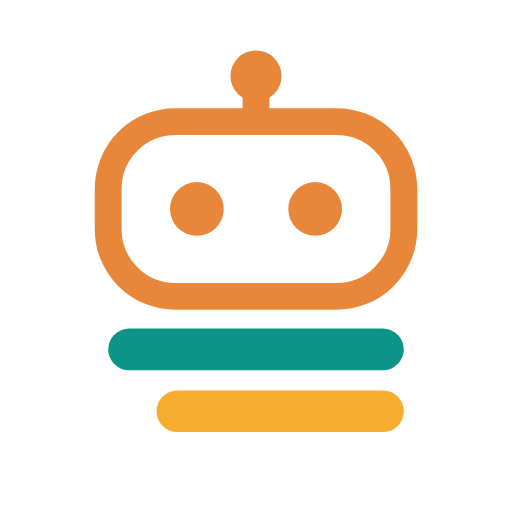
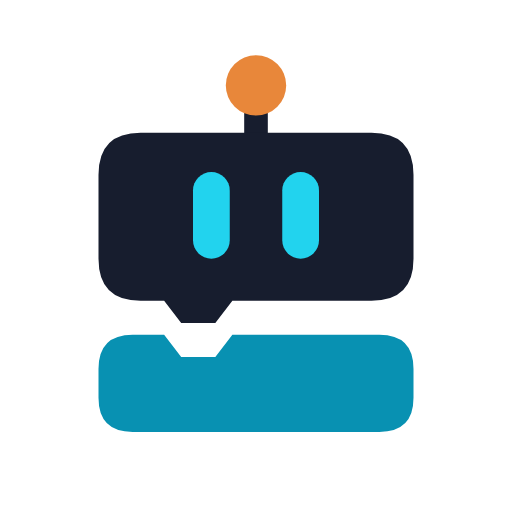
Give Tobot its new mark: a robot whose head is a statement block
The head is a code block with its tab reaching into the block below, which is
its body; the face is the character's — navy visor, cyan pill eyes, orange
antenna. On a dark background the navy head takes a light rim and the antenna
stalk turns light, from the theme in the app and from the tab strip's colour
scheme in the favicon.

The favicon, the PNG icons and the social image are drawn from the same
geometry. The Apple touch icon brings its own white, since iOS fills
transparency with black.

diff --git a/src/components/BrandMark.tsx b/src/components/BrandMark.tsx
@@ -9,19 +9,20 @@ interface BrandMarkProps {
 /**
  * Tobot's mark.
  *
- * Not a robot icon: a robot *built out of an algorithm*. The head is a rounded
- * square with an antenna, and the body below it is two stacked bars — the
- * statement blocks of the editor, read as a shape. The two ideas the app is
- * about are the same drawing, which is what a borrowed robot glyph could never
- * say.
+ * A robot made of an algorithm: the head *is* a statement block — the notch-
+ * less top, the tab hanging from its bottom edge — and it snaps into the block
+ * below, which is its body. Robot and code are the same shape, which is the
+ * whole idea of the app in two pieces.
  *
- * Teal against the orange because it is the orange's actual complement: the
- * first pairing used purple and blue, two cool colours that competed with the
- * orange without ever contrasting against it. Teal also survives best at 16px,
- * which is the size that decides whether a mark works at all.
+ * The face is the character's: a dark navy visor with two cyan pill eyes and
+ * an orange antenna, so the mark is the Tobot of the illustrations reduced to
+ * its minimum rather than a separate drawing.
  *
- * One component, used by the header, the landing page, the sign-in screen and
- * the favicon, so the identity cannot drift between them.
+ * On a dark background the navy head would sink into it, so it carries a rim
+ * whose colour comes from the theme (`--brand-mark-rim`), transparent on light.
+ *
+ * One component, used by the header, the landing page and the sign-in screen;
+ * `public/favicon.svg` and the PNG icons are drawn from the same geometry.
  */
 export function BrandMark({ size = 32, className }: BrandMarkProps) {
   return (
@@ -33,23 +34,24 @@ export function BrandMark({ size = 32, className }: BrandMarkProps) {
       role="img"
       aria-label="Tobot"
     >
-      {/* Antenna: the stalk reads as the "t" of the name at small sizes. */}
+      <path className="brand-mark__antenna" d="M16 3.8V6.6" strokeWidth="1.8" strokeLinecap="round" />
+      <circle className="brand-mark__spark" cx="16" cy="3" r="2.3" />
+
+      {/* The head: a statement block, its tab reaching into the block below. */}
       <path
-        className="brand-mark__antenna"
-        d="M16 2.5v3.5"
-        strokeWidth="2"
-        strokeLinecap="round"
+        className="brand-mark__head"
+        d="M7.2 6.6H24.8Q28 6.6 28 9.8V16.2Q28 19.4 24.8 19.4H14.2l-1.3 1.7H10.3l-1.3-1.7H7.2Q4 19.4 4 16.2V9.8Q4 6.6 7.2 6.6Z"
+        strokeWidth="1.2"
+        strokeLinejoin="round"
       />
-      <circle className="brand-mark__spark" cx="16" cy="2.6" r="1.9" />
+      <rect className="brand-mark__eye" x="11.2" y="9.6" width="2.8" height="6.6" rx="1.4" />
+      <rect className="brand-mark__eye" x="18" y="9.6" width="2.8" height="6.6" rx="1.4" />
 
-      {/* Head. */}
-      <rect className="brand-mark__head" x="5" y="6" width="22" height="13" rx="5" />
-      <circle className="brand-mark__eye" cx="11.6" cy="12.5" r="2" />
-      <circle className="brand-mark__eye" cx="20.4" cy="12.5" r="2" />
-
-      {/* The algorithm the robot is made of: two statements, indented. */}
-      <rect className="brand-mark__bar brand-mark__bar--1" x="5" y="21.4" width="22" height="3.1" rx="1.55" />
-      <rect className="brand-mark__bar brand-mark__bar--2" x="8.6" y="26" width="18.4" height="3.1" rx="1.55" />
+      {/* The body: the next statement, notched to take the head's tab. */}
+      <path
+        className="brand-mark__body"
+        d="M6.6 22H9l1.3 1.7H12.9l1.3-1.7H25.4Q28 22 28 24.6V26.8Q28 29.4 25.4 29.4H6.6Q4 29.4 4 26.8V24.6Q4 22 6.6 22Z"
+      />
     </svg>
   );
 }

diff --git a/src/components/BrandMark.css b/src/components/BrandMark.css
@@ -1,41 +1,50 @@
 /**
- * The mark's colours.
+ * The mark's colours: Tobot's own.
  *
- * The head and antenna key off `currentColor`, so a caller can tint them by
- * setting `color`, while the statement bars carry the teal and amber that pair
- * with the orange. Setting `--brand-mark-bars` collapses them to one colour
- * where the context needs it, such as a monochrome print.
+ * Navy head, cyan eyes, orange antenna, teal body. The rim is transparent on a
+ * light background and light on a dark one, where the navy head would
+ * otherwise sink into the page. A caller on a permanently dark surface can set
+ * `--brand-mark-rim` itself.
  */
 .brand-mark {
+  --brand-mark-rim: transparent;
+  --brand-mark-stalk: #171d2e;
+
   display: block;
   flex-shrink: 0;
-  color: var(--accent);
   overflow: visible;
 }
 
+:root[data-theme='dark'] .brand-mark {
+  --brand-mark-rim: #e8ebf3;
+  --brand-mark-stalk: #e8ebf3;
+}
+
+@media (prefers-color-scheme: dark) {
+  :root:not([data-theme='light']) .brand-mark {
+    --brand-mark-rim: #e8ebf3;
+    --brand-mark-stalk: #e8ebf3;
+  }
+}
+
 .brand-mark__head {
-  fill: none;
-  stroke: currentColor;
-  stroke-width: 2;
+  fill: #171d2e;
+  stroke: var(--brand-mark-rim);
+}
+
+.brand-mark__eye {
+  fill: #22d3ee;
 }
 
 .brand-mark__antenna {
   fill: none;
-  stroke: currentColor;
+  stroke: var(--brand-mark-stalk);
 }
 
-.brand-mark__spark,
-.brand-mark__eye {
-  fill: currentColor;
+.brand-mark__spark {
+  fill: #e8873a;
 }
 
-/* Teal is the orange's complement, so the two bars carry the contrast the
-   mark needs without either colour fighting the head for attention. */
-.brand-mark__bar--1 {
-  fill: var(--brand-mark-bars, #0d9488);
-}
-
-.brand-mark__bar--2 {
-  fill: var(--brand-mark-bars, #f59e0b);
-  opacity: 0.85;
+.brand-mark__body {
+  fill: #0891b2;
 }
